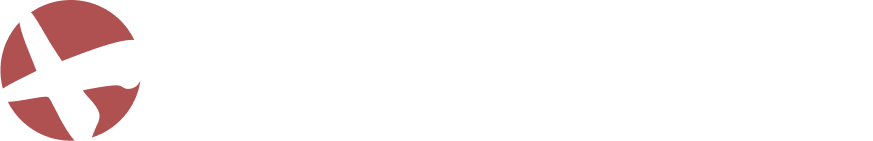
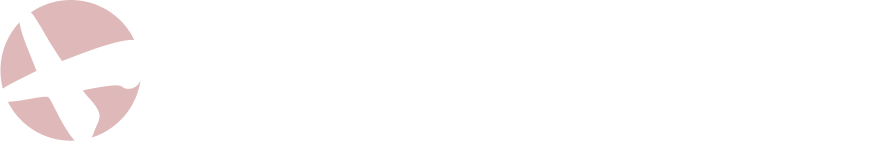
feat: add adaptive watermark

Changed region(s): [[0.0, 0.0, 0.1546, 0.6241], [0.0, 0.5957, 0.1856, 1.0]]

diff --git a/system/classes/Bitkit/Core/Files/Watermark.php b/system/classes/Bitkit/Core/Files/Watermark.php
@@ -62,8 +62,10 @@ class Watermark extends \Bitkit\Core\Files\File
             $new_width, $new_height,
             $width, $height);
 
+		$watermark_src = $thumb_width < 500 ? 'watermark-small.png' : 'watermark.png';
+
 	    // Создаем ресурс изображения для нашего водяного знака
-	    $watermark_image = imagecreatefrompng(PROJECT_ROOT.'/img/watermark.png');
+	    $watermark_image = imagecreatefrompng(PROJECT_ROOT . '/img/' . $watermark_src);
 
 	    $watermark_scale = 0.7;
 	    $watermark_width = $thumb_width * $watermark_scale;
